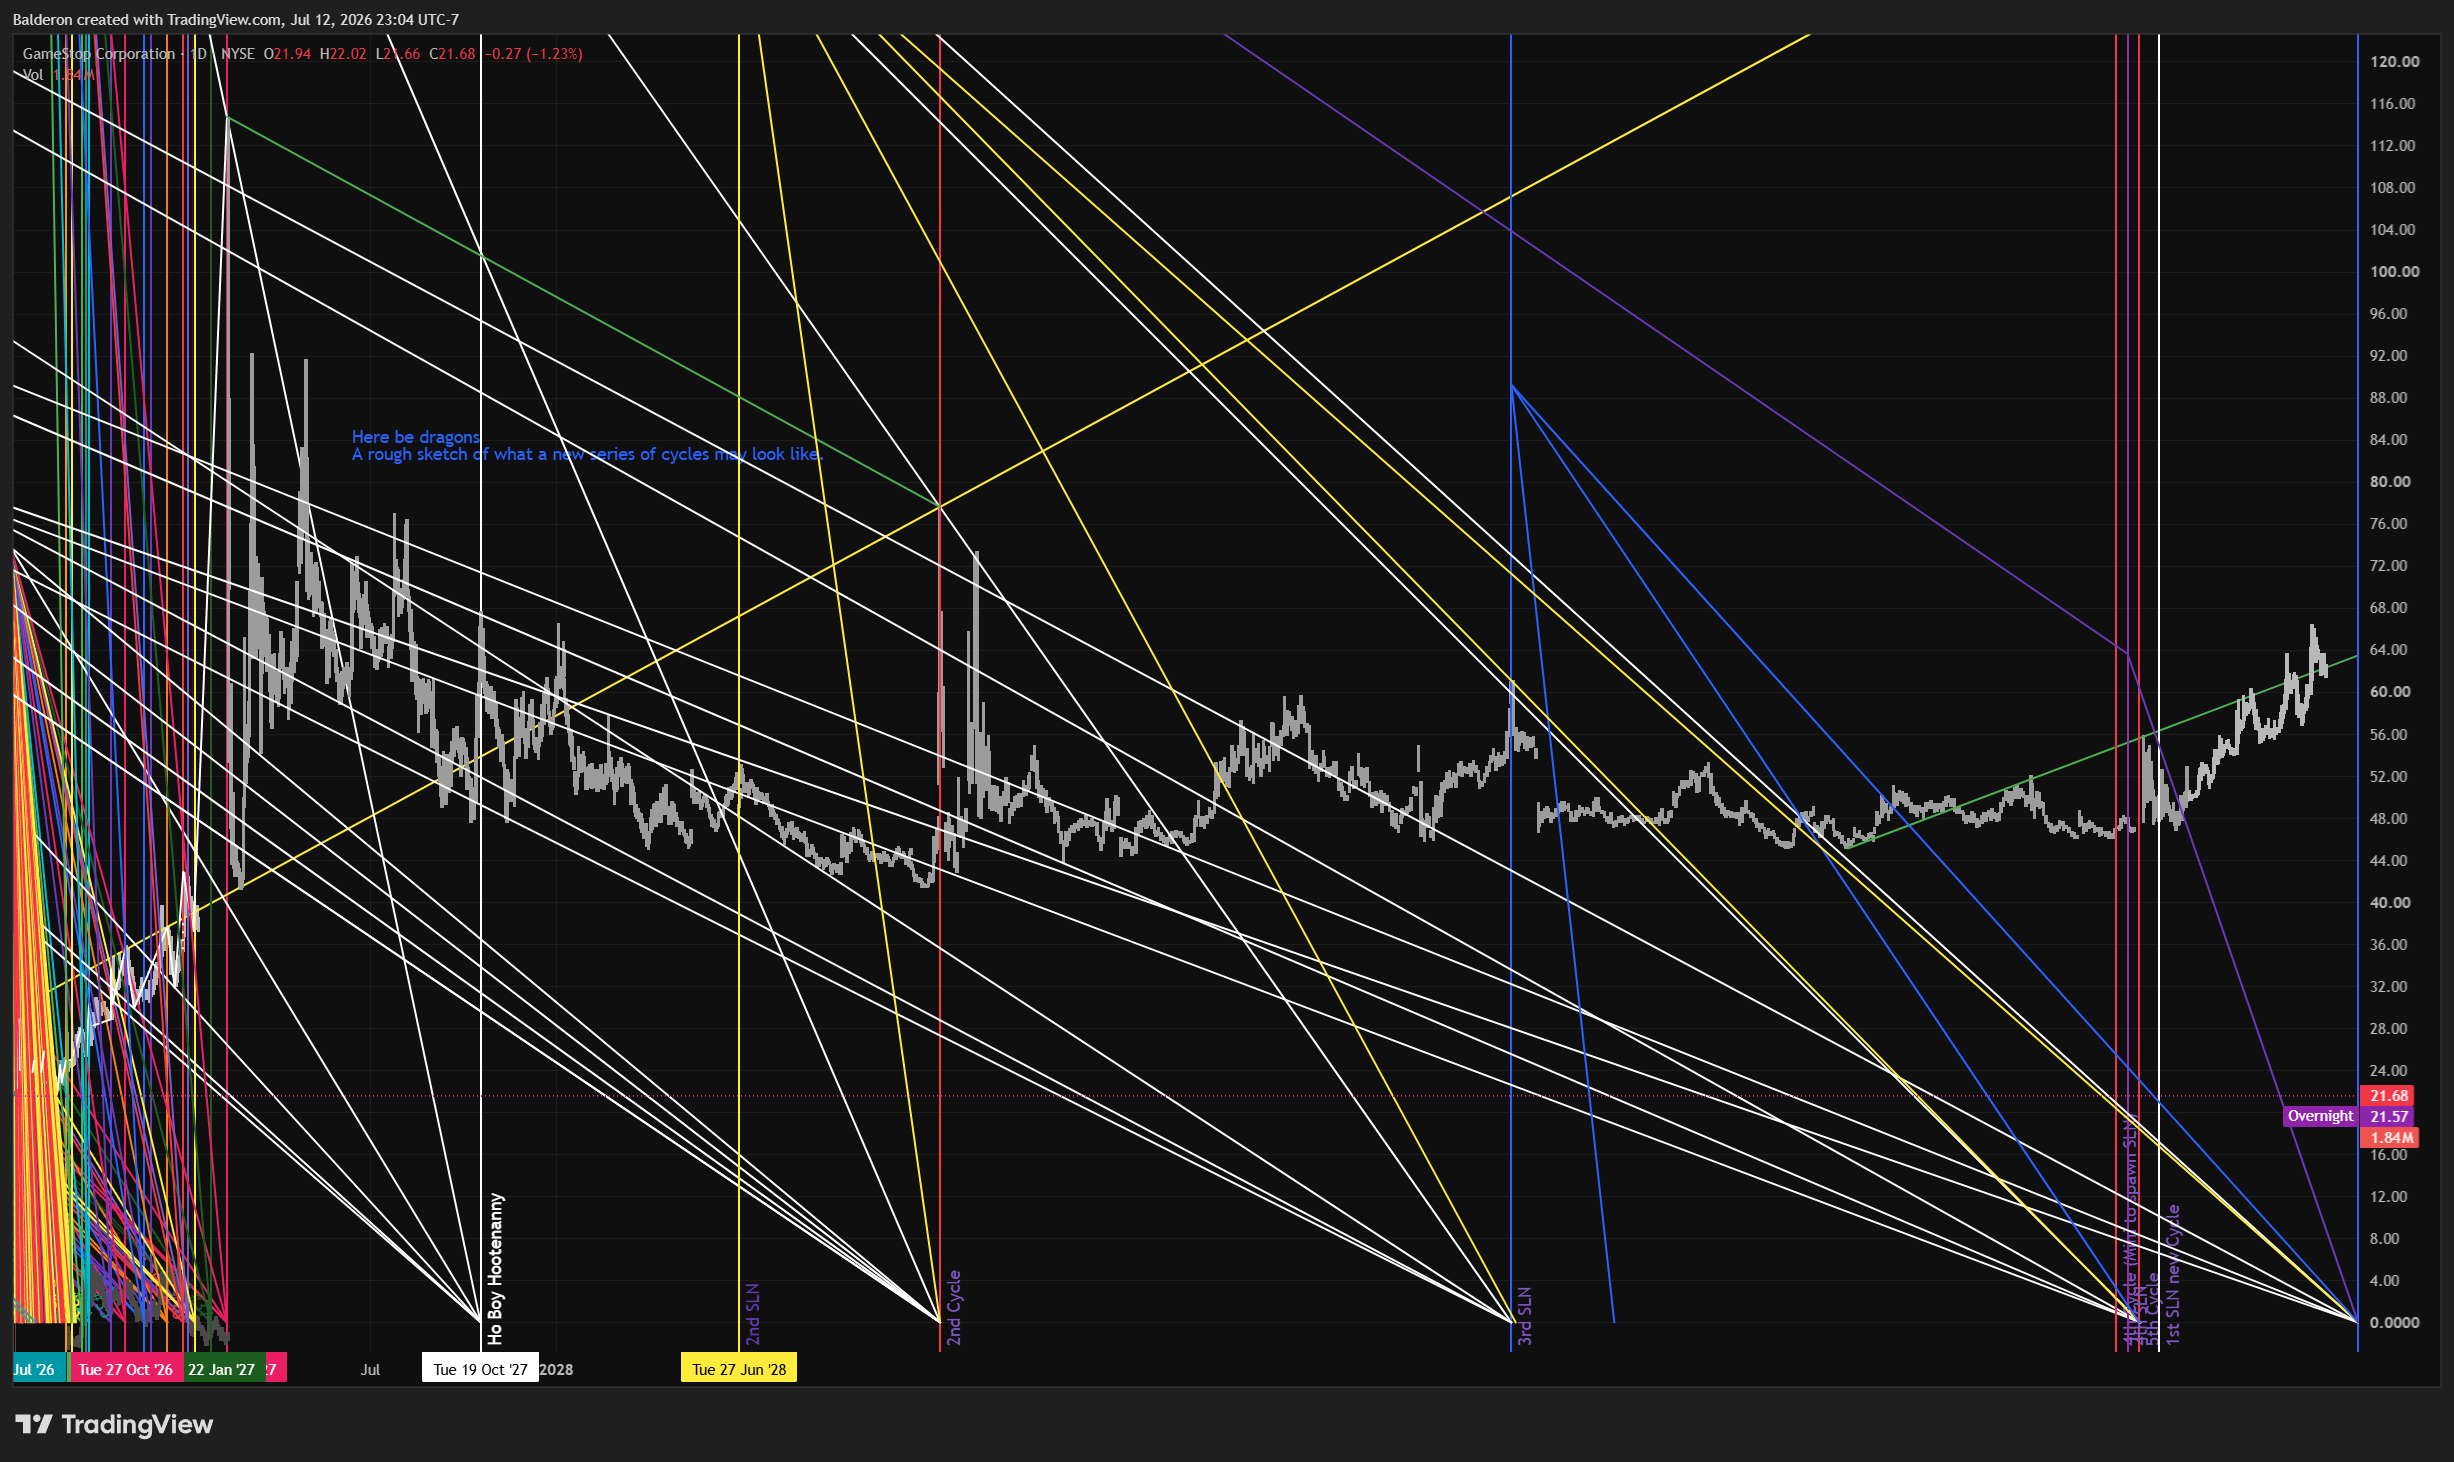
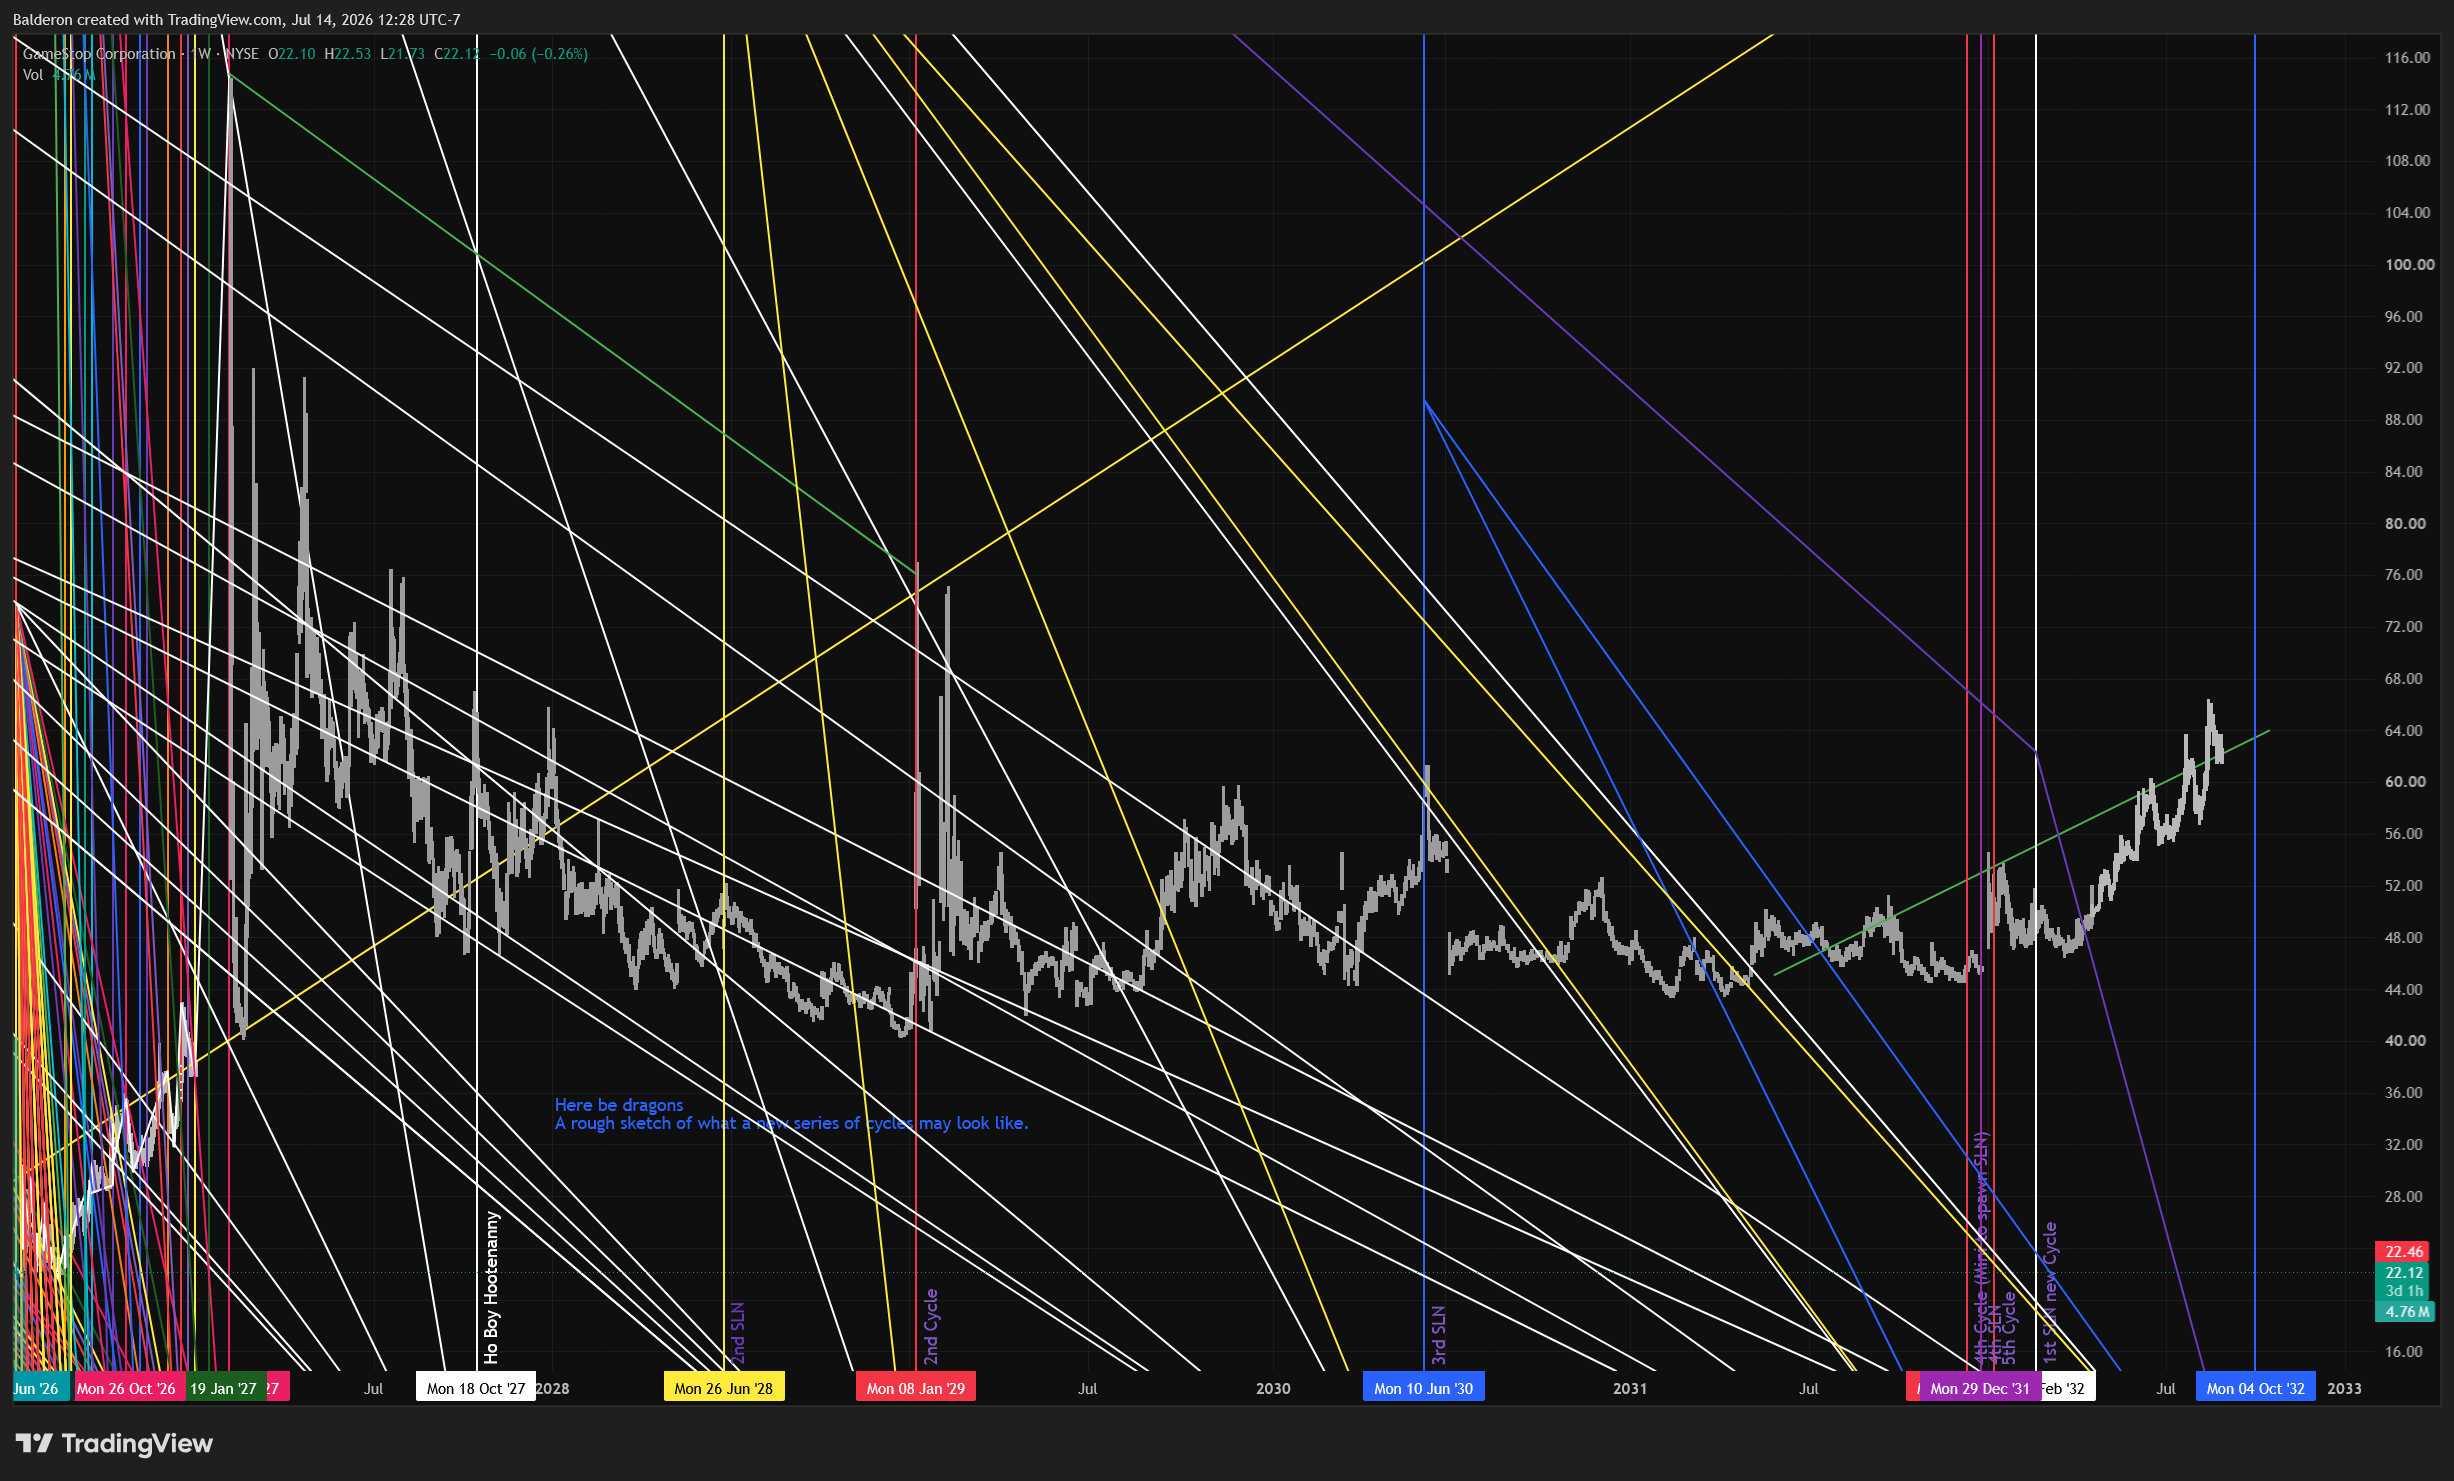
Updating Next Series Prediction... very early drafts still

diff --git a/README.md b/README.md
@@ -75,7 +75,7 @@ Algo based timeline and approximate price: ( only rough estimates and subject to
 |1	| 7/15 	|30.5||||
 |2	| 7/15 	|24|Possibly early 7/16 ~2hrs into trading|||
 |3	| 7/16 	|28.8|Mid day|||
-|13	| 7/17 	|24.5||||/
+|13	| 7/17 	|24.5||||
 |17-18	| 7/20 	|29||||
 |19-20	| 7/21 	|29.5||||
 |23	| 7/24 	|22.5||||
@@ -126,9 +126,9 @@ If they repeat again... well I guess 'we'll see'.
 Swap Line Nexus data to repro yourself:
 
 * SLN 1: 8/3/2026 @ $200.00
-* SLN 2: 1/27/2028 @ $136.25
-* SLN 3: ~7/8/2030 @ $89.20
-* SLN 4: ~2/23/2032 @ $63.63
+* SLN 2: 1/30/2028 @ $133.50
+* SLN 3: ~6/10/2030 @ $89.50
+* SLN 4: ~12/30/2031 @ $62.37
 
 ![](/LinearForecastNextSeries.png)
 GME Linear Forecast - Next Series of Cycles 1/27-10/32